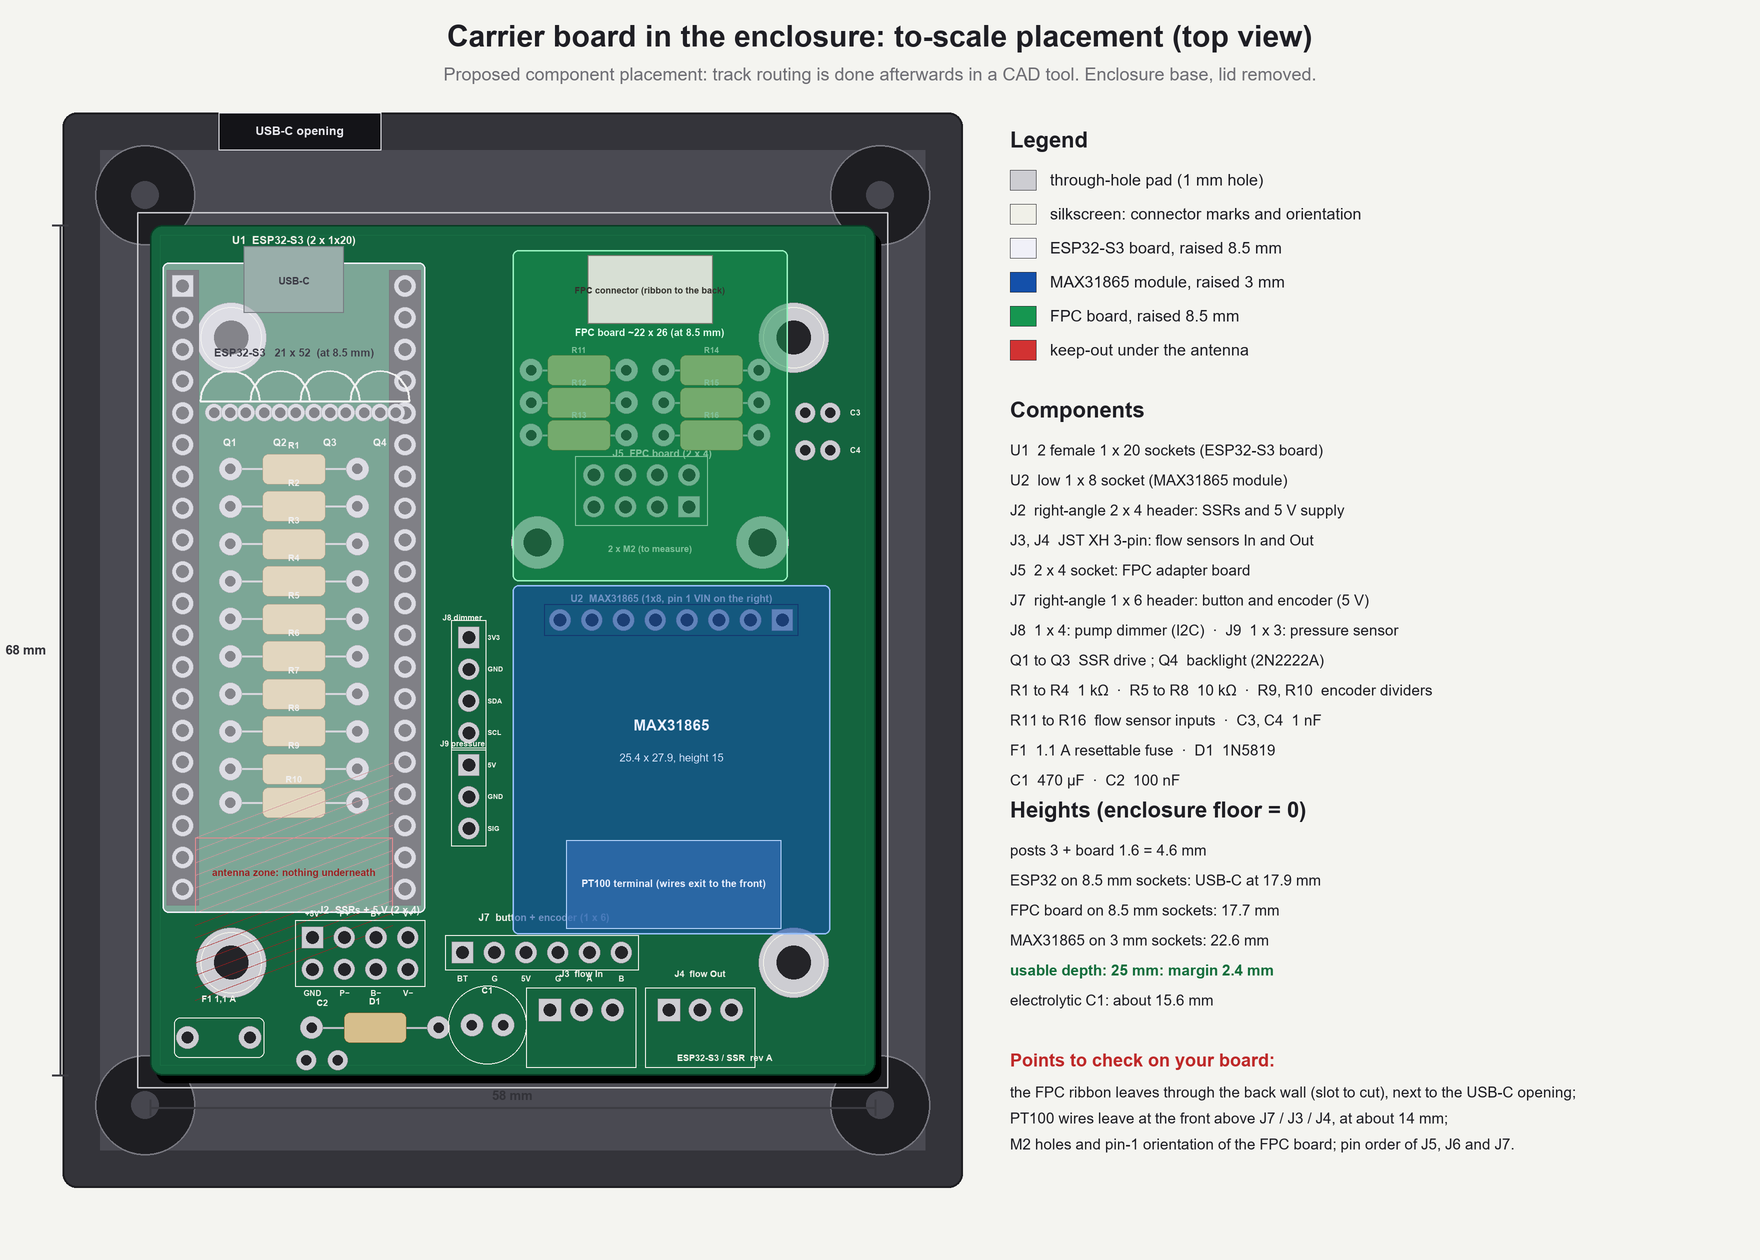
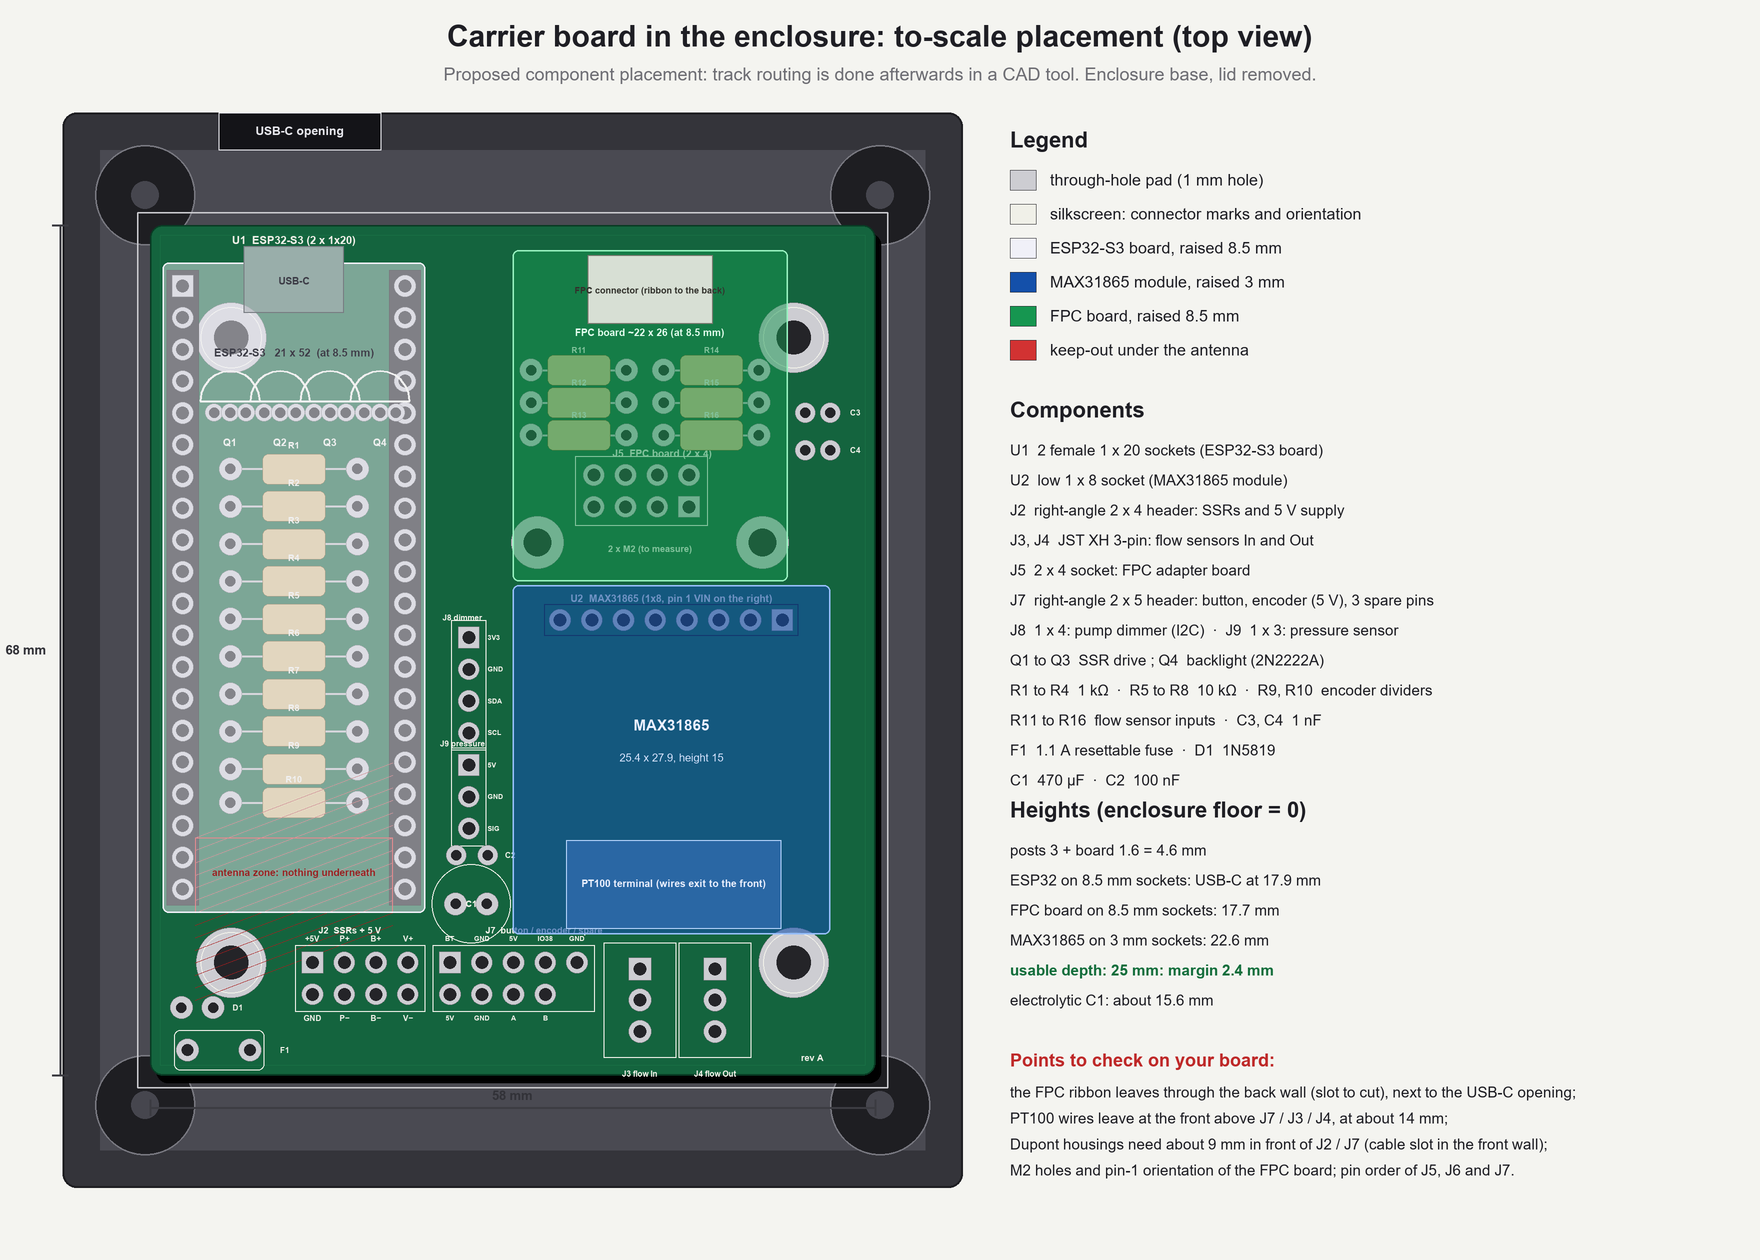
Front row: J7 becomes 2x5 with 3 spare pins (5V, GPIO38, GND); no more clashes between J2/J7/J3/J4/passives

Changed region(s): [[0.0938, 0.65, 0.4375, 0.8667], [0.5625, 0.8976, 0.875, 0.9286], [0.7188, 0.4643, 0.8125, 0.4952]]

diff --git a/tools/carrier_plan.py b/tools/carrier_plan.py
@@ -149,23 +149,29 @@ for i, name in enumerate(["C3", "C4"]):
     text(d, X(56.0), Y(15.0 + i * 3.0), name, 8, SILK, True, 'lm')
 
 # ---------------------------------------------------------------- front strip: J2 (2x4), J7 (1x6), polyfuse, diode, electrolytic, XH x2
-# J2: 2 x 4 right-angle header, SSR + power
+# Front edge: every right-angle header has its Dupont housings plugged in towards the front (about 9 mm of keep-out in front of the pads).
+# J2: 2 x 4 right-angle header, SSR + power (housing keep-out x 11.7 .. 21.9)
 for r_ in range(2):
     for c_ in range(4):
-        tpad(13.0 + c_ * 2.54, 57.0 + r_ * 2.54, square=(r_ == 0 and c_ == 0), ring=1.7, drill=1.0)
-rect(d, X(13.0) - 1.4 * K, Y(57.0) - 1.4 * K, X(13.0 + 3 * 2.54) + 1.4 * K, Y(59.54) + 1.4 * K, outline=SILK + (255,), width=2)
-silk(17.5, 54.8, "J2  SSRs + 5 V (2 x 4)", 10)
+        tpad(13.0 + c_ * 2.54, 59.0 + r_ * 2.54, square=(r_ == 0 and c_ == 0), ring=1.7, drill=1.0)
+rect(d, X(13.0) - 1.4 * K, Y(59.0) - 1.4 * K, X(13.0 + 3 * 2.54) + 1.4 * K, Y(61.54) + 1.4 * K, outline=SILK + (255,), width=2)
+silk(16.0, 56.4, "J2  SSRs + 5 V", 9)
 for c_, lab in enumerate(["+5V", "P+", "B+", "V+"]):
-    text(d, X(13.0 + c_ * 2.54), Y(57.0) - 1.9 * K, lab, 8, SILK, True)
+    text(d, X(13.0 + c_ * 2.54), Y(59.0) - 1.9 * K, lab, 8, SILK, True)
 for c_, lab in enumerate(["GND", "P−", "B−", "V−"]):
-    text(d, X(13.0 + c_ * 2.54), Y(59.54) + 1.9 * K, lab, 8, SILK, True)
-# J7: 1 x 6 right-angle header, button and encoder
-for i in range(6):
-    tpad(25.0 + i * 2.54, 58.2, square=(i == 0), ring=1.7, drill=1.0)
-rect(d, X(25.0) - 1.4 * K, Y(58.2) - 1.4 * K, X(25.0 + 5 * 2.54) + 1.4 * K, Y(58.2) + 1.4 * K, outline=SILK + (255,), width=2)
-silk(31.5, 55.4, "J7  button + encoder (1 x 6)", 10)
-for i, lab in enumerate(["BT", "G", "5V", "G", "A", "B"]):
-    text(d, X(25.0 + i * 2.54), Y(58.2) + 2.1 * K, lab, 8, SILK, True)
+    text(d, X(13.0 + c_ * 2.54), Y(61.54) + 1.9 * K, lab, 8, SILK, True)
+# J7: 2 x 5 right-angle header (two stacked rows of housings): button, encoder, and 3 spare pins (+5 V, GPIO 38, GND)
+# row A (top): BT, GND | +5 V, IO38, GND      row B (bottom): +5 V, GND, A, B
+for c_ in range(5):
+    tpad(24.0 + c_ * 2.54, 59.0, square=(c_ == 0), ring=1.7, drill=1.0)
+for c_ in range(4):
+    tpad(24.0 + c_ * 2.54, 61.54, ring=1.7, drill=1.0)
+rect(d, X(24.0) - 1.4 * K, Y(59.0) - 1.4 * K, X(24.0 + 4 * 2.54) + 1.4 * K, Y(61.54) + 1.4 * K, outline=SILK + (255,), width=2)
+silk(31.5, 56.4, "J7  button / encoder / spare", 9)
+for c_, lab in enumerate(["BT", "GND", "5V", "IO38", "GND"]):
+    text(d, X(24.0 + c_ * 2.54), Y(59.0) - 1.9 * K, lab, 7, SILK, True)
+for c_, lab in enumerate(["5V", "GND", "A", "B"]):
+    text(d, X(24.0 + c_ * 2.54), Y(61.54) + 1.9 * K, lab, 7, SILK, True)
 # J8: 1 x 4 vertical header, dimmer (UART / I2C) in the corridor between ESP32 and FPC board; J9: 1 x 3, pressure sensor
 for i, lab in enumerate(["3V3", "GND", "SDA", "SCL"]):
     tpad(25.5, 33.0 + i * 2.54, square=(i == 0), ring=1.7, drill=1.0)
@@ -177,22 +183,24 @@ for i, lab in enumerate(["5V", "GND", "SIG"]):
     text(d, X(27.0), Y(43.2 + i * 2.54), lab, 7, SILK, True, 'lm')
 rect(d, X(25.5) - 1.4 * K, Y(43.2) - 1.4 * K, X(25.5) + 1.4 * K, Y(43.2 + 2 * 2.54) + 1.4 * K, outline=SILK + (255,), width=2)
 silk(25.0, 41.5, "J9 pressure", 8)
-# F1 polyfuse (radial, pitch 5), D1 1N5819 (axial 10.16), C1 470 uF (radial 5 mm dia, pitch 2.5), C2 100 nF
-tpad(3.0, 65.0, ring=1.8, drill=0.9); tpad(8.0, 65.0, ring=1.8, drill=0.9)
-rrect(d, X(1.9), Y(63.4), X(9.1), Y(66.6), 6, outline=SILK + (255,), width=2); silk(5.5, 61.9, "F1 1,1 A", 9)
-axial(18.0, 64.2, pitch=10.16); text(d, X(18.0), Y(64.2) - 2.1 * K, "D1", 9, SILK, True)
-circ(d, X(27.0), Y(64.0), 3.15 * K, fill=None, outline=SILK + (255,), width=2)
-tpad(25.75, 64.0, ring=1.8, drill=0.8); tpad(28.25, 64.0, ring=1.8, drill=0.8); silk(27.0, 61.2, "C1", 9)
-tpad(12.5, 66.8, ring=1.6, drill=0.8); tpad(15.0, 66.8, ring=1.6, drill=0.8); silk(13.8, 62.2, "C2", 9)
-# XH x2 (side entry, 3 pins 2.5 pitch)
-for k, (x0, name) in enumerate([(32.0, "J3  flow In"), (41.5, "J4  flow Out")]):
+# F1 polyfuse (radial, pitch 5) and D1 1N5819 (standing) in the front-left corner, in front of the mounting hole
+tpad(3.0, 66.0, ring=1.8, drill=0.9); tpad(8.0, 66.0, ring=1.8, drill=0.9)
+rrect(d, X(1.9), Y(64.4), X(9.1), Y(67.6), 6, outline=SILK + (255,), width=2); text(d, X(10.4), Y(66.0), "F1", 8, SILK, True, 'lm')
+tpad(2.5, 62.6, ring=1.8, drill=0.8); tpad(5.04, 62.6, ring=1.8, drill=0.8)
+text(d, X(6.6), Y(62.6), "D1", 8, SILK, True, 'lm')
+# C1 470 uF (radial 6.3 mm) and C2 100 nF, in the corridor between ESP32 and MAX31865
+circ(d, X(25.7), Y(54.3), 3.15 * K, fill=None, outline=SILK + (255,), width=2)
+tpad(24.45, 54.3, ring=1.8, drill=0.8); tpad(26.95, 54.3, ring=1.8, drill=0.8); silk(25.7, 54.3, "C1", 9)
+tpad(24.5, 50.4, ring=1.6, drill=0.8); tpad(27.0, 50.4, ring=1.6, drill=0.8); silk(25.7, 49.2, "C2", 8) if False else text(d, X(28.4), Y(50.4), "C2", 8, SILK, True, 'lm')
+# JST XH x2: vertical headers, rotated (pins along y), the plugs come out upwards: no keep-out towards the front
+for k, (x0, name) in enumerate([(39.2, "J3 flow In"), (45.2, "J4 flow Out")]):
     for i in range(3):
-        tpad(x0 + i * 2.5, 62.8, square=(i == 0), ring=1.8, drill=1.0)
-    rect(d, X(x0) - 1.9 * K, Y(62.8) - 1.8 * K, X(x0 + 5) + 1.9 * K, Y(62.8) + 4.6 * K, outline=SILK + (255,), width=2)
-    text(d, X(x0 + 2.5), Y(62.8) - 2.9 * K, name, 9, SILK, True)
+        tpad(x0, 59.5 + i * 2.5, square=(i == 0), ring=1.8, drill=1.0)
+    rect(d, X(x0) - 2.9 * K, Y(59.5) - 2.1 * K, X(x0) + 2.9 * K, Y(64.5) + 2.1 * K, outline=SILK + (255,), width=2)
+    text(d, X(x0), Y(64.5) + 3.4 * K, name, 8, SILK, True)
 
 # silkscreen title
-silk(46.0, 66.6, "ESP32-S3 / SSR  rev A", 9)
+silk(53.0, 66.6, "rev A", 9)
 
 # ---------------------------------------------------------------- the raised boards, translucent (they hide nothing)
 # ESP32-S3 board 21 x 52 at x 1..22, y 3..55
@@ -252,7 +260,7 @@ comp = [
     "J2  right-angle 2 x 4 header: SSRs and 5 V supply",
     "J3, J4  JST XH 3-pin: flow sensors In and Out",
     "J5  2 x 4 socket: FPC adapter board",
-    "J7  right-angle 1 x 6 header: button and encoder (5 V)",
+    "J7  right-angle 2 x 5 header: button, encoder (5 V), 3 spare pins",
     "J8  1 x 4: pump dimmer (I2C)  ·  J9  1 x 3: pressure sensor",
     "Q1 to Q3  SSR drive ; Q4  backlight (2N2222A)",
     "R1 to R4  1 kΩ  ·  R5 to R8  10 kΩ  ·  R9, R10  encoder dividers",
@@ -279,6 +287,7 @@ text(d, lx, 1060, "Points to check on your board:", 18, (190, 40, 40), True, 'lm
 chk = [
     "the FPC ribbon leaves through the back wall (slot to cut), next to the USB-C opening;",
     "PT100 wires leave at the front above J7 / J3 / J4, at about 14 mm;",
+    "Dupont housings need about 9 mm in front of J2 / J7 (cable slot in the front wall);",
     "M2 holes and pin-1 orientation of the FPC board; pin order of J5, J6 and J7.",
 ]
 for i, t in enumerate(chk):

diff --git a/tools/box_iso3.py b/tools/box_iso3.py
@@ -116,19 +116,23 @@ J9X, J9Y = CX0 + 25.5 - 1.27, CY0 + 43.2 - 1.27
 add(J8X, J8Y, top, 2.54, 10.16, 2.5, BLACK); add(J8X + 0.2, J8Y + 0.2, top + 2.5, 2.14, 9.76, 8.0, WHITE)
 add(J9X, J9Y, top, 2.54, 7.62, 2.5, BLACK); add(J9X + 0.2, J9Y + 0.2, top + 2.5, 2.14, 7.22, 8.0, WHITE)
 # J2 (2 x 4 right-angle, rows stacked vertically) and four 2-pin housings plugged in from the front
-add(CX0 + 13 - 1.27, CY0 + 56.0, top, 10.16, 5.6, 5.9, BLACK)
+add(CX0 + 13 - 1.27, CY0 + 58.2, top, 10.16, 5.0, 5.9, BLACK)
 for k in range(4):
-    add(CX0 + 13 - 1.27 + k * 2.54 + 0.15, CY0 + 61.6, top + 0.4, 2.24, 8.6, 5.1, WHITE)
-# J7 (1 x 6 right-angle): a 2-pin housing (button) and a 4-pin housing (encoder)
-add(CX0 + 25 - 1.27, CY0 + 56.8, top, 15.24, 3.0, 2.5, BLACK)
-add(CX0 + 25 - 1.27 + 0.15, CY0 + 59.8, top + 0.2, 4.78, 8.6, 2.1, WHITE)
-add(CX0 + 25 - 1.27 + 5.08 + 0.15, CY0 + 59.8, top + 0.2, 9.86, 8.6, 2.1, WHITE)
-# two transistors' worth of small parts at the front: polyfuse, diode, electrolytic, JST XH x2
-add(CX0 + 1.9, CY0 + 63.4, top, 7.2, 3.2, 8.5, (232, 200, 60))                # polyfuse
-add(CX0 + 13.5, CY0 + 63.2, top, 9.0, 2.0, 2.0, BLACK)                         # 1N5819 diode
-add(CX0 + 23.8, CY0 + 61.0, top, 6.3, 6.3, 12.0, (30, 40, 90))                # 470 uF electrolytic
+    add(CX0 + 13 - 1.27 + k * 2.54 + 0.15, CY0 + 63.2, top + 0.4, 2.24, 8.6, 5.1, WHITE)
+# J7 (2 x 5 right-angle): lower row = 4-pin encoder housing, upper row = 2-pin button + 3-pin spare housings
+add(CX0 + 24 - 1.27, CY0 + 58.2, top, 12.7, 5.0, 5.9, BLACK)
+add(CX0 + 24 - 1.27 + 0.15, CY0 + 63.2, top + 0.4, 10.0, 8.6, 2.3, WHITE)
+add(CX0 + 24 - 1.27 + 0.15, CY0 + 63.2, top + 3.0, 4.9, 8.6, 2.3, WHITE)
+add(CX0 + 24 - 1.27 + 5.23, CY0 + 63.2, top + 3.0, 7.4, 8.6, 2.3, (225, 222, 205))
+# polyfuse, standing diode, electrolytic, 100 nF, and the two JST XH (vertical headers with their plugs)
+add(CX0 + 1.9, CY0 + 64.4, top, 7.2, 3.2, 11.0, (232, 200, 60))                # polyfuse
+add(CX0 + 1.2, CY0 + 61.2, top, 2.7, 2.7, 5.2, BLACK)                          # 1N5819 standing
+add(CX0 + 22.55, CY0 + 51.15, top, 6.3, 6.3, 12.0, (30, 40, 90))               # 470 uF electrolytic
+add(CX0 + 24.0, CY0 + 49.9, top, 4.0, 1.6, 4.2, (200, 120, 40))                # 100 nF
 for k in range(2):
-    add(CX0 + 31.2 + k * 9.5, CY0 + 61.6, top, 7.5, 5.75, 6.0, WHITE)          # JST XH 3 (plug on the board header)
+    xb = CX0 + 39.2 + k * 6.0 - 2.9
+    add(xb, CY0 + 58.1, top, 5.8, 9.9, 5.8, WHITE)                             # JST XH header
+    add(xb + 0.3, CY0 + 58.4, top + 5.8, 5.2, 9.3, 6.0, (225, 215, 190))      # its plug
 
 items.sort(key=lambda t: t[0])
 for _, fn in items:
@@ -142,20 +146,20 @@ poly([(0, BY, FW), (BX, BY, FW), (BX, BY - WALL, FW), (0, BY - WALL, FW)], shade
 poly([(BX, 0, FW), (BX, BY, FW), (BX - WALL, BY - WALL, FW), (BX - WALL, WALL, FW)], shade(PLASTIC, 1.15), (20, 20, 24))
 
 # ---------------------------------------------------------------- the cables, leaving through the front
-def wire(x, y, z, pts_z_end, col, w=3):
-    pass
-
-# J2: 4 housings, two wires each (stacked rows): +5 V / GND, pump, boiler, valve
 j2cols = [((200, 30, 30), (20, 20, 24)), ((150, 90, 40), (235, 235, 235)), ((230, 130, 30), (235, 235, 235)), ((235, 200, 40), (235, 235, 235))]
 for k, (c1, c2) in enumerate(j2cols):
     xk = CX0 + 13 + k * 2.54
-    d.line([P(xk, CY0 + 70.2, top + 4.1), P(xk, CY0 + 84, top + 3.0)], fill=c1, width=3 * SS)
-    d.line([P(xk, CY0 + 70.2, top + 1.6), P(xk, CY0 + 84, top + 0.6)], fill=c2, width=3 * SS)
-# J7: button (2 wires) and encoder (4 wires)
-j7cols = [(240, 240, 240), (20, 20, 24), (200, 30, 30), (20, 20, 24), (40, 150, 70), (60, 110, 210)]
-for k, col in enumerate(j7cols):
-    xk = CX0 + 25 + k * 2.54
-    d.line([P(xk, CY0 + 68.4, top + 1.2), P(xk, CY0 + 82, top - 0.3)], fill=col, width=3 * SS)
+    d.line([P(xk, CY0 + 71.8, top + 4.1), P(xk, CY0 + 84, top + 3.0)], fill=c1, width=3 * SS)
+    d.line([P(xk, CY0 + 71.8, top + 1.6), P(xk, CY0 + 84, top + 0.6)], fill=c2, width=3 * SS)
+# J7 upper row: button (2) + spare (3); lower row: encoder (4)
+upper = [(240, 240, 240), (20, 20, 24), (200, 30, 30), (235, 200, 40), (20, 20, 24)]
+lower = [(200, 30, 30), (20, 20, 24), (40, 150, 70), (60, 110, 210)]
+for k, col in enumerate(upper):
+    xk = CX0 + 24 + k * 2.54
+    d.line([P(xk, CY0 + 71.8, top + 4.2), P(xk, CY0 + 84, top + 3.2)], fill=col, width=3 * SS)
+for k, col in enumerate(lower):
+    xk = CX0 + 24 + k * 2.54
+    d.line([P(xk, CY0 + 71.8, top + 1.5), P(xk, CY0 + 84, top + 0.5)], fill=col, width=3 * SS)
 # J8 / J9: wires rise above the plugs then leave towards the front, above everything
 for k, col in enumerate([(200, 30, 30), (20, 20, 24), (235, 200, 40), (60, 110, 210)]):
     y = CY0 + 33.0 + k * 2.54
@@ -163,11 +167,12 @@ for k, col in enumerate([(200, 30, 30), (20, 20, 24), (235, 200, 40), (60, 110, 
 for k, col in enumerate([(200, 30, 30), (20, 20, 24), (40, 150, 70)]):
     y = CY0 + 43.2 + k * 2.54
     d.line([P(CX0 + 25.5, y, top + 10.5), P(CX0 + 25.5, y, top + 19 + k), P(CX0 + 25.5, CY0 + 84, top + 15 + k)], fill=col, width=3 * SS)
-# JST XH flow sensors
+# JST XH flow sensors: the cables come out of the top of the plugs and go forward
 for kx in range(2):
     for k, col in enumerate([(200, 30, 30), (235, 200, 40), (20, 20, 24)]):
-        xk = CX0 + 32 + kx * 9.5 + k * 2.5
-        d.line([P(xk, CY0 + 67.3, top + 5), P(xk, CY0 + 82, top + 3)], fill=col, width=3 * SS)
+        yk = CY0 + 59.5 + k * 2.5
+        xk = CX0 + 39.2 + kx * 6.0
+        d.line([P(xk, yk, top + 11.8), P(xk, yk, top + 15), P(xk, CY0 + 84, top + 5 + kx)], fill=col, width=3 * SS)
 # PT100 wires leave the terminal block towards the front, above J7 / XH
 for k, col in enumerate([(200, 30, 30), (200, 30, 30), (235, 235, 235)]):
     xk = mx + 7.0 + k * 3.6
@@ -189,9 +194,9 @@ pl(ax0 + 11, ay0 + 10, top + HDR + 1.6, 1560, 300, "your FPC adapter board (on s
 pl(ax0 + 11, ay0 + 4, top + HDR + 4.2, 1560, 420, "FPC connector pre-soldered")
 pl(ax0 + 11, ay0 - 8, top + HDR + 2, 1560, 510, "ribbon to the remote display (back wall)")
 pl(CX0 + 25.5, CY0 + 38, top + 10.5, 300, 560, "J8 dimmer (I2C), J9 pressure")
-pl(CX0 + 16, CY0 + 66, top + 3.5, 300, 650, "J2: 5 V + 3 SSRs (4 housings, 2 x 4)")
-pl(CX0 + 31, CY0 + 66, top + 3.5, 300, 735, "J7: button + encoder (1 x 6)")
-pl(CX0 + 40, CY0 + 65, top + 6, 1560, 640, "JST XH 3: flow sensors In and Out")
+pl(CX0 + 16, CY0 + 66, top + 3.5, 300, 650, "J2: 5 V + 3 SSRs")
+pl(CX0 + 28, CY0 + 66, top + 4.0, 300, 735, "J7: button, encoder, spare")
+pl(CX0 + 42, CY0 + 63, top + 12, 1560, 640, "JST XH 3 (vertical plugs): flow sensors In and Out")
 pl(sx0, sy0 + 50, FLOOR + 3, 300, 820, "3 mm small posts (45 x 50)")
 
 # ---------------------------------------------------------------- the stack of heights

diff --git a/docs/carrier_spec.md b/docs/carrier_spec.md
@@ -6,6 +6,7 @@ All **through-hole** parts (no SMD soldering). Related files: `images/carrier_pl
 - Board: **58 x 68 mm**, two layers, ground plane. Free area in the enclosure: 60 x 70 mm between the large posts.
 - 4 mounting holes on the **3 mm** small posts, **45 x 50 mm** spacing.
 - Usable depth **25 mm**: posts 3 + board 1.6 = 4.6 mm; ESP32 on 8.5 mm sockets (USB-C at 17.9 mm); FPC adapter board on 8.5 mm sockets (17.7 mm); MAX31865 on low 3 mm sockets (22.6 mm, 2.4 mm margin).
+- **Front connector row:** right-angle headers with their Dupont housings need about **9 mm in front of the pads** (keep-out, nothing else there); J2, J7 and the vertical JST XH J3 / J4 are side by side on the front edge. F1 and D1 sit in the front-left corner (in front of the mounting hole), C1 and C2 in the corridor between the ESP32 and the MAX31865. A cable slot is needed in the front wall (housings end about 6 mm from it).
 - **Cable sides:** all cables leave through the **front** (J2, J7, J3, J4, and the PT100 wires). The USB-C and the display ribbon are at the **back**.
 - **MAX31865 rotated 180 degrees and swapped with the FPC board:** the MAX31865 is at the bottom right (header on its rear edge, pin 1 VIN on the right; PT100 terminal block facing the front, wires at about 14 mm above J7 / J3 / J4). The FPC adapter board is at the top right, its FPC connector towards the back wall, with the flow-input resistors R11 to R16 and C3, C4 under it. Only the MAX terminal block needs the front: if it stayed at the top (even rotated), its wires would have to cross the FPC board, which is at 13.1 to 17.7 mm.
 - The display ribbon (flat, at about 15.5 mm) goes out through the **back wall**: a slot has to be cut in the wall (or the lid), next to the USB-C opening. If the display must also be reached from the front, the ribbon has to be routed around the enclosure.
@@ -15,10 +16,10 @@ All **through-hole** parts (no SMD soldering). Related files: `images/carrier_pl
 | Ref | Type | Role |
 |---|---|---|
 | J2 | 2 x 4 right-angle male header, female Dupont housings | 5 V supply + 3 SSRs |
-| J3, J4 | JST XH 3-pin (real pitch 2.5 mm) | flow sensors In and Out |
+| J3, J4 | JST XH 3-pin, vertical, rotated (real pitch 2.5 mm) | flow sensors In and Out |
 | J5 | 2 x 4 female socket | FPC adapter board (8 pins, ribbon to the remote display) |
 | J6 | 1 x 8 female socket (low, 3 mm) | MAX31865 module |
-| J7 | 1 x 6 right-angle male header | button + encoder (encoder powered from 5 V) |
+| J7 | 2 x 5 right-angle male header | button + encoder (encoder powered from 5 V) + 3 spare pins (5 V, GPIO 38, GND) |
 | J8 | 1 x 4 header | RobotDyn 4 A pump dimmer, **I2C** (powered from 3.3 V) |
 | J9 | 1 x 3 header | pressure sensor 0.5 to 4.5 V, 0 to 12 bar (powered from 5 V) |
 | ESP | 2 x 1 x 20 female sockets | ESP32-S3 board (row spacing to be measured) |
@@ -31,12 +32,13 @@ All **through-hole** parts (no SMD soldering). Related files: `images/carrier_pl
 
 Four 2-pin Dupont housings (one per column). Warning: a 2 x 4 header is not keyed and a 2-pin housing can be plugged the wrong way round; mark the wires (red on row A) or add a key / use a keyed housing.
 
-### J7 (1 x 6)
-| 1 | 2 | 3 | 4 | 5 | 6 |
+### J7 (2 x 5, right-angle: two stacked rows of Dupont housings)
+| | 1 | 2 | 3 | 4 | 5 |
 |---|---|---|---|---|---|
-| button (GPIO 6) | GND | **+5 V** | GND | enc. A (GPIO 4) | enc. B (GPIO 5) |
+| Row A (upper) | button (GPIO 6) | GND | **+5 V** | **GPIO 38** | **GND** |
+| Row B (lower) | +5 V | GND | enc. A (GPIO 4) | enc. B (GPIO 5) | not used |
 
-Housings: 2-pin (button) and 4-pin (encoder: +5 V, GND, A, B). The wire order must follow **your** encoder module (to be checked).
+Housings: row A = 2-pin (button) + 3-pin (**spare: +5 V, free GPIO 38, GND**); row B = 4-pin (encoder: +5 V, GND, A, B). The wire order must follow **your** encoder module (to be checked). Stacking the spare pins above the encoder (rather than extending the row to the right) keeps J7 only 15 mm wide, so it does not run into J3 / J4. GPIO 38 is a plain 3.3 V GPIO (not on the strapping / PSRAM / USB list): not 5 V tolerant.
 
 ### 5 V inputs protection (encoder)
 The ESP32-S3 only accepts 3.3 V. Since the encoder module is powered from 5 V, its outputs (A, B, button) can reach 5 V if the module has pull-ups to 5 V. Each signal therefore goes through a divider: 4.7 kΩ in series to the GPIO, then 10 kΩ from the GPIO to GND (5 V becomes 3.4 V). The 10 kΩ pull-ups to 3.3 V (R9, R10) are then removed. **To check:** if your module is a bare encoder without pull-up resistors, 10 kΩ pull-ups to 5 V are needed (provide optional footprints).
@@ -80,7 +82,7 @@ G1/4 sensor, 0 to 12 bar, 0.5 to 4.5 V output. The signal goes through a divider
 VIN (3.3 V), 3Vo (unused), GND, CLK (GPIO 12), SDO (GPIO 13), SDI (GPIO 11), CS (GPIO 7), RDY (unused). This is the Adafruit order (VIN, 3Vo, GND, CLK, SDO, SDI, CS, RDY).
 
 ## ESP32-S3 pins
-5V, 3V3, GND; GPIO 17 (pump SSR), 18 (boiler SSR), 21 (valve SSR); 15 (flow In), 16 (flow Out); 4 / 5 (encoder); 6 (button); 11 / 12 / 13 (SPI MOSI / SCK / MISO); 10 (display CS); 9 / 8 (display DC / RST); 14 (backlight); 7 (MAX31865 CS); 47 / 48 (dimmer, I2C SDA / SCL); 1 (pressure, ADC); 38 (spare). Avoided: 0, 3, 45, 46, 19, 20, 35 to 37.
+5V, 3V3, GND; GPIO 17 (pump SSR), 18 (boiler SSR), 21 (valve SSR); 15 (flow In), 16 (flow Out); 4 / 5 (encoder); 6 (button); 11 / 12 / 13 (SPI MOSI / SCK / MISO); 10 (display CS); 9 / 8 (display DC / RST); 14 (backlight); 7 (MAX31865 CS); 47 / 48 (dimmer, I2C SDA / SCL); 1 (pressure, ADC); 38 (spare, on J7). Avoided: 0, 3, 45, 46, 19, 20, 35 to 37.
 
 ## Circuits
 - **Power:** J2 A1 (+5 V) → 1.1 A resettable fuse → 1N5819 diode (reverse protection) → +5 V rail (470 µF + 100 nF) → ESP32 5V pin. The 3.3 V comes from the ESP32 board.
@@ -96,7 +98,7 @@ VIN (3.3 V), 3Vo (unused), GND, CLK (GPIO 12), SDO (GPIO 13), SDI (GPIO 11), CS 
 | 2 | 1 x 20 female sockets, 8.5 mm | 1 € |
 | 1 | MAX31865 module (owned) + low 1 x 8 socket | 0.3 € |
 | 1 | 8-pin FPC board (owned) + 2 x 4 male header + 2 x 4 female socket | 0.5 € |
-| 1 | right-angle 2 x 4 male header + right-angle 1 x 6 + 1 x 4 + 1 x 3 | 0.7 € |
+| 1 | right-angle 2 x 4 + right-angle 2 x 5 male headers, 1 x 4 and 1 x 3 male headers | 0.8 € |
 | 2 | JST XH 3-pin headers | 0.5 € |
 | 4 | 2N2222A transistors (3 SSRs + backlight) | 0.6 € |
 | ~20 | axial resistors (1 kΩ, 10 kΩ, 4.7 kΩ, 20 kΩ; to be recounted at routing) | 1 € |
